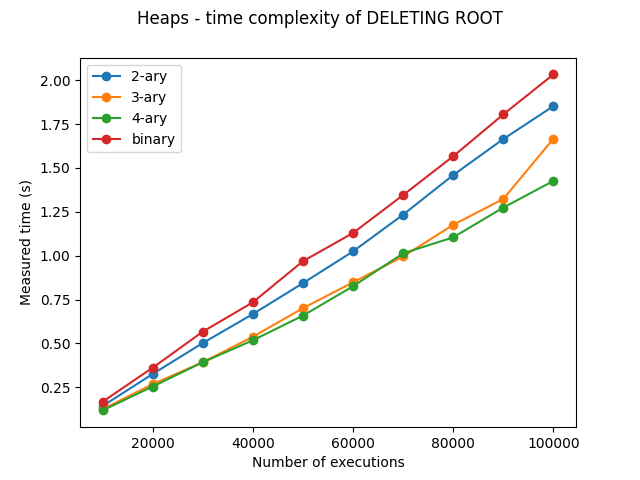
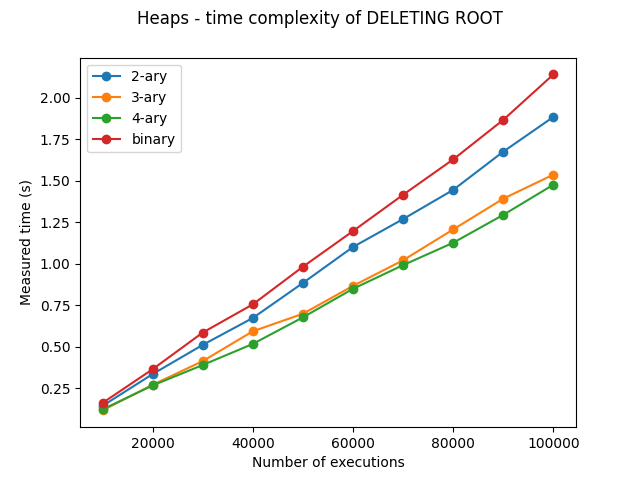
poprawki wykresowe

diff --git a/kopce/main.py b/kopce/main.py
@@ -31,17 +31,17 @@ for n in checkpoints:
     new_list = list[:n]
 
     heap_binary_times[0].append(get_time_insert(heap_binary, new_list, 1))
-    heap_binary_times[1].append(get_time_delete(heap_binary, n, 7))
+    heap_binary_times[1].append(get_time_delete(heap_binary, n, 8))
 
     heap_2_times[0].append(get_time_insert(heap_2, new_list, 1))
-    heap_2_times[1].append(get_time_delete(heap_2, n, 7))
+    heap_2_times[1].append(get_time_delete(heap_2, n, 8))
 
     heap_3_times[0].append(get_time_insert(heap_3, new_list, 1))
-    heap_3_times[1].append(get_time_delete(heap_3, n, 7))
+    heap_3_times[1].append(get_time_delete(heap_3, n, 8))
 
     heap_4_times[0].append(get_time_insert(heap_4, new_list, 1))
-    heap_4_times[1].append(get_time_delete(heap_4, n, 7))
+    heap_4_times[1].append(get_time_delete(heap_4, n, 8))
     print(n, "iteration")
 
-draw_a_plot(checkpoints, heap_2_times[0], heap_3_times[0], heap_4_times[0], heap_binary_times[0], "creating")
+# draw_a_plot(checkpoints, heap_2_times[0], heap_3_times[0], heap_4_times[0], heap_binary_times[0], "creating")
 draw_a_plot(checkpoints, heap_2_times[1], heap_3_times[1], heap_4_times[1], heap_binary_times[1], "deleting root")
